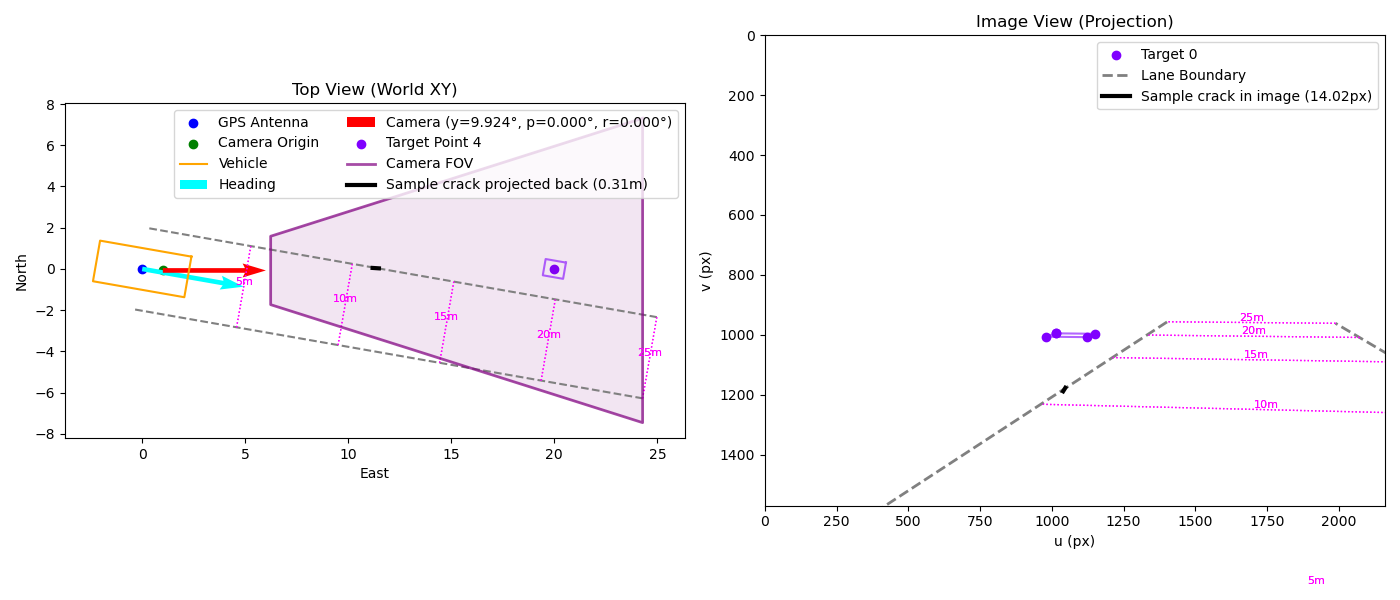
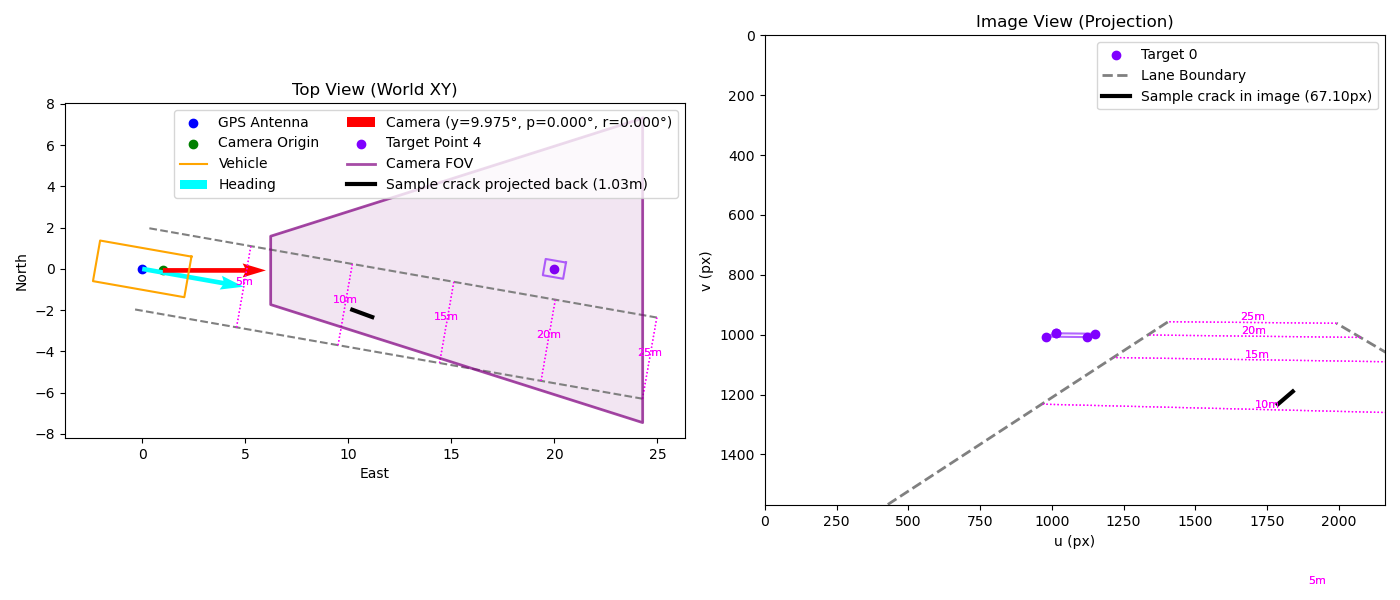
Refine camera model (#103)
* fix plotting issue with the crack detection visualization

* Add a section in the camera_model.py show case how to call the function by adding a test on projection

* Add more comment

* Address comment by CoPilot

---------

diff --git a/utility/camera/camera_model.py b/utility/camera/camera_model.py
@@ -34,7 +34,7 @@ logger.setLevel(logging.INFO)  # Default level, can be changed by main script
 if not logger.handlers:  # Avoid duplicate handlers
     handler = logging.StreamHandler()
     formatter = logging.Formatter(
-        '%(asctime)s - %(name)s - %(levelname)s - %(message)s'
+        '%(asctime)s - %(levelname)s - [%(filename)s:%(lineno)d] - %(message)s'
     )
     handler.setFormatter(formatter)
     logger.addHandler(handler)
@@ -133,6 +133,9 @@ class CameraModel:
         inputs !!!Important!!!:
                 world_point: 3D point in world coordinates (ENU)
             antenna_pos_world: GPS antenna position in world coordinates (ENU)
+                Note that this value does not need to be the absolute position;
+                for example, it can be [0,0,0], in which case the world point
+                returned will be relative to this position but still in the world frame (ENU).
             heading_deg: vehicle heading angle in degrees (0 = East, 90 = North, etc.)
                 camera orientation angles in vehicle body frame:
             yaw (Azimuth): rotation around body frame Z axis (up), positive is counter-clockwise or to the left
@@ -175,16 +178,19 @@ class CameraModel:
         # logger.debug(f"Projected image coordinates (homogeneous): {p_img_homog}")
         return p_img_homog[:2]
 
-    def camera_pixel_to_world(self, pixel_uv, distance_to_ground,
+    def camera_pixel_to_world(self, pixel_uv,
                               antenna_pos_world, heading_deg, yaw, pitch,
                               roll):
         """
         Convert camera pixel coordinates to world coordinates on the ground plane.
-
+        This function uses vehicle antenna position and camera relative position to calculate the world coordinates.
+        TODO: have a projection that uses solely the camera position/orientation and the pixel coordinates.
         Args:
             pixel_uv: [u,v] pixel coordinates in the image
-            distance_to_ground: height of the camera above ground in meters
-            antenna_pos_world: GPS antenna position in world coordinates (ENU)
+            antenna_pos_world: GPS antenna position in world coordinates (ENU).
+                Note that this value does not need to be the absolute position;
+                for example, it can be [0,0,0], in which case the world point
+                returned will be relative to this position but still in the world frame (ENU).
             heading_deg: vehicle heading in degrees (0=East, 90=North)
             yaw, pitch, roll: camera orientation angles in vehicle body frame
 
@@ -210,6 +216,7 @@ class CameraModel:
         ray_dir_world = R_total @ ray_dir_cam
 
         # 3. Get camera position in world coordinates
+        # antenna offset has height so no need consider height separately here.
         cam_pos_world = antenna_pos_world + R_heading @ self.gps_to_cam_offset_body
 
         # 4. Find intersection with ground plane (z = 0)
@@ -485,7 +492,11 @@ class CameraModel:
             max_dist = np.linalg.norm(world_points[:, :2] - antenna_pos_world[:2], axis=1).max()
         lane_max_dist = max(20.0, max_dist + 5.0)  # Add buffer for visualization
 
-        for offset in [- lane_width / 2, lane_width / 2]:
+        # Lists to store left and right lane image points
+        left_lane_img_pts = []
+        right_lane_img_pts = []
+        
+        for offset in [-lane_width / 2, lane_width / 2]:
             lane_start = antenna_pos_world + R_heading @ np.array([0.0, offset, -antenna_pos_world[2]])
             # Get maximum distance from antenna to target point in the heading direction
             target_dist = np.linalg.norm(world_points[:, :2] - antenna_pos_world[:2], axis=1).max()
@@ -506,6 +517,12 @@ class CameraModel:
             if len(lane_img_pts) > 1:
                 ax_img.plot(lane_img_pts[:, 0], lane_img_pts[:, 1],
                             color='gray', linestyle='--', linewidth=2, label='Lane Boundary' if offset == -lane_width / 2 else None)
+            # Store points for each lane separately
+            # note that the left and right lane projection may be behind the camera, when using it, need to filter out those beyond FOV
+            if offset == -lane_width / 2:
+                left_lane_img_pts = lane_img_pts
+            else:
+                right_lane_img_pts = lane_img_pts
 
             # Plot cross sections (perpendicular lines) along the lane centerline every ~5 meters
             cross_section_spacing = 5.0
@@ -542,82 +559,69 @@ class CameraModel:
         # verify crack size estimation algorithm using the pixel to world back - projection
         pixel_distance = 50
         # Sample points within the area surrounded by lane boundary image points
-        if len(lane_img_pts) > 0:
-            # Find points in the lower half of the image
-            valid_pts = lane_img_pts[lane_img_pts[:, 1] > self.intrinsics['cy']]
+        # Sampling crack points based on lane boundaries
+        if len(left_lane_img_pts) > 0 and len(right_lane_img_pts) > 0:
+            # Get y bounds for valid sampling region and cap at image boundaries
+            y_min = max(left_lane_img_pts[0, 1], right_lane_img_pts[0, 1])
+            y_max = min(left_lane_img_pts[-1, 1], right_lane_img_pts[-1, 1])
+            
+            # Cap at image boundaries (cy is center, so *2 gives full height/width)
+            y_min = max(0, min(y_min, self.intrinsics['cy'] * 2))
+            y_max = max(0, min(y_max, self.intrinsics['cy'] * 2))
 
-            if len(valid_pts) > 0:
-                # Get the convex hull of lane points to define sampling area
-                left_lane = valid_pts[valid_pts[:, 0] < self.intrinsics['cx']]
-                right_lane = valid_pts[valid_pts[:, 0] > self.intrinsics['cx']]
+            # Sample first point about 1/3 up from bottom
+            v1 = y_min + (y_max - y_min) * (2.0 / 3.0 * np.random.random() + 1.0 / 3.0)
 
-                if len(left_lane) > 0 and len(right_lane) > 0:
-                    # Sort points by y - coordinate
-                    left_lane = left_lane[left_lane[:, 1].argsort()]
-                    right_lane = right_lane[right_lane[:, 1].argsort()]
+            # Find closest y-values in both lanes
+            left_idx = np.searchsorted(left_lane_img_pts[:, 1], v1)
+            right_idx = np.searchsorted(right_lane_img_pts[:, 1], v1)
 
-                    # Get y bounds for valid sampling region
-                    y_min = max(left_lane[0, 1], right_lane[0, 1])
-                    y_max = min(left_lane[-1, 1], right_lane[-1, 1])
+            # Get x-coordinates at those indices
+            if left_idx >= len(left_lane_img_pts):
+                left_idx = len(left_lane_img_pts) - 1
+            if right_idx >= len(right_lane_img_pts):
+                right_idx = len(right_lane_img_pts) - 1
 
-                    # Sample first point about 1 / 3 up from bottom
-                    v1 = y_min + (y_max - y_min) * 0.33
+            left_x = max(0, min(left_lane_img_pts[left_idx, 0], self.intrinsics['cx'] * 2))
+            right_x = max(0, min(right_lane_img_pts[right_idx, 0], self.intrinsics['cx'] * 2))
 
-                    # Find closest y - values in both lanes
-                    left_idx = np.searchsorted(left_lane[:, 1], v1)
-                    right_idx = np.searchsorted(right_lane[:, 1], v1)
+            # Sample first point randomly between lane boundaries
+            u1 = left_x + (right_x - left_x) * np.random.random()
 
-                    # Get x - coordinates at those indices
-                    if left_idx >= len(left_lane):
-                        left_idx = len(left_lane) - 1
-                    if right_idx >= len(right_lane):
-                        right_idx = len(right_lane) - 1
+            # Sample second point in a circle with radius pixel_distance
+            angle = 2 * np.pi * np.random.random()
+            u2 = u1 + pixel_distance * np.cos(angle)
+            v2 = v1 + pixel_distance * np.sin(angle)
 
-                    left_x = left_lane[left_idx, 0]
-                    right_x = right_lane[right_idx, 0]
+            # Ensure second point stays within lane boundaries and image
+            v2 = max(0, min(v2, y_min))
+            v2 = min(v2, self.intrinsics['cy'] * 2)
 
-                    # Sample first point randomly between lane boundaries
-                    u1 = left_x + (right_x - left_x) * np.random.random()
+            # Find x bounds for second point
+            left_idx2 = np.searchsorted(left_lane_img_pts[:, 1], v2)
+            right_idx2 = np.searchsorted(right_lane_img_pts[:, 1], v2)
 
-                    # Sample second point pixel_distance higher in image
-                    # Sample second point in a circle with radius pixel_distance
-                    angle = 2 * np.pi * np.random.random()  # Random angle
-                    u2 = u1 + pixel_distance * np.cos(angle)
-                    v2 = v1 + pixel_distance * np.sin(angle)
+            if left_idx2 >= len(left_lane_img_pts):
+                left_idx2 = len(left_lane_img_pts) - 1
+            if right_idx2 >= len(right_lane_img_pts):
+                right_idx2 = len(right_lane_img_pts) - 1
 
-                    # Ensure the point stays within lane boundaries
-                    v2 = max(min(v2, y_min), y_max)  # Clamp v2 to valid y range
+            left_x2 = max(0, min(left_lane_img_pts[left_idx2, 0], self.intrinsics['cx'] * 2))
+            right_x2 = max(0, min(right_lane_img_pts[right_idx2, 0], self.intrinsics['cx'] * 2))
 
-                    # Find x bounds for second point
-                    left_idx2 = np.searchsorted(left_lane[:, 1], v2)
-                    right_idx2 = np.searchsorted(right_lane[:, 1], v2)
-
-                    if left_idx2 >= len(left_lane):
-                        left_idx2 = len(left_lane) - 1
-                    if right_idx2 >= len(right_lane):
-                        right_idx2 = len(right_lane) - 1
-
-                    left_x2 = left_lane[left_idx2, 0]
-                    right_x2 = right_lane[right_idx2, 0]
-
-                    u2 = left_x2 + (right_x2 - left_x2) * np.random.random()
-                else:
-                    # Fallback if lane boundaries not found
-                    u1 = self.intrinsics['cx']
-                    v1 = self.intrinsics['cy'] + 200
-                    u2 = u1
-                    v2 = v1 - 50
-            else:
-                # Fallback if no valid points
-                u1 = self.intrinsics['cx']
-                v1 = self.intrinsics['cy'] + 200
-                u2 = u1
-                v2 = v1 - 50
+            u2 = left_x2 + (right_x2 - left_x2) * np.random.random()
+            logger.info(f"Sampled crack points: ({u1:.2f}, {v1:.2f}) and ({u2:.2f}, {v2:.2f})")
+        else:
+            logger.info("No valid lane boundaries found for sampling crack points.")
+            # Fallback values
+            u1 = self.intrinsics['cx']
+            v1 = self.intrinsics['cy'] + 200
+            u2 = u1
+            v2 = v1 - 50
 
         # Back - project to world coordinates
         world_pt1 = self.camera_pixel_to_world(
             [u1, v1],
-            distance_to_ground=antenna_pos_world[2],
             antenna_pos_world=antenna_pos_world,
             heading_deg=heading_deg,
             yaw=yaw,
@@ -627,7 +631,6 @@ class CameraModel:
 
         world_pt2 = self.camera_pixel_to_world(
             [u2, v2],
-            distance_to_ground=antenna_pos_world[2],
             antenna_pos_world=antenna_pos_world,
             heading_deg=heading_deg,
             yaw=yaw,
@@ -709,7 +712,7 @@ if __name__ == "__main__":
 
     # TODO: generate a random world point from the camera field of view
     antenna_pos_world = np.array([0.0, 0.0, 1.3])  # GPS world coordinates in ENU
-    world_point = np.array([20.0, 0.0, 0.0])        # Target point on road
+    world_point = np.array([20.0 + 0.05 * np.random.uniform(-1, 1), 0.0, 0.0])        # Target point on road
 
     # Heading in degrees (counter clockwise is positive, 0 = East, 90 = North, etc.)
     # heading_deg = 0.0   # Facing east
@@ -738,6 +741,38 @@ if __name__ == "__main__":
     output_folder = os.path.join('samples', 'data', f'{base_folder}_{next_num:02d}')
     os.makedirs(output_folder, exist_ok=True)
 
+    # ---- example of how to use the model as quick test of projection and back-projection -----------
+    logger.info("\nTesting projection and back-projection:")
+    # First project world point to image
+    cam_coords = model.world_to_camera(world_point, antenna_pos_world, heading_deg,
+                                       yaw_in_body_frame, pitch_in_body_frame, roll_in_body_frame)
+    uv = model.project_point_to_image(cam_coords)
+    logger.info(f"World point {world_point} projects to image coordinates {uv}")
+    
+    # Then project back to world
+    world_point_back = model.camera_pixel_to_world(
+        uv,
+        antenna_pos_world=antenna_pos_world,
+        heading_deg=heading_deg,
+        yaw=yaw_in_body_frame,
+        pitch=pitch_in_body_frame,
+        roll=roll_in_body_frame
+    )
+    
+    # Compare results
+    if world_point_back is not None:
+        # remark: Using assert statements in production code is not recommended as they can be disabled with the -O flag.
+        # Consider using a proper exception like RuntimeError or converting this to a warning/error log message for production robustness.
+        # assert np.allclose(world_point[:2], world_point_back[:2], atol=1e-8), "Back-projected point does not match original point"
+        if not np.allclose(world_point[:2], world_point_back[:2], atol=1e-8):
+            logger.error("Back-projected point does not match original point")
+            raise RuntimeError("Back-projected point does not match original point")
+        error = np.linalg.norm(world_point - world_point_back)
+        logger.info(f"Back-projected world point: {world_point_back}")
+        logger.info(f"Projection error: {error:.8f} meters")
+
+    # -------------------------------------------------------------------------------------------------
+    
     # plot top view and image view comparison
     fig, ax_top, ax_img = model.plot_comparison_view(world_point, antenna_pos_world, heading_deg, yaw_in_body_frame, pitch_in_body_frame, roll_in_body_frame)
     fig.savefig(os.path.join(output_folder, 'top_view_vs_image_view.png'))

diff --git a/utility/camera/test_camera_model.py b/utility/camera/test_camera_model.py
@@ -2,7 +2,8 @@
 # Unit tests for CameraModel class in camera_model.py
 Written with the help of Copilot. (Verified)
 run with
-python3 -m pytest test_camera_model.py
+python3 -m pytest # test all the test_xxx
+python3 -m pytest test_camera_model.py # test only on test_camera_model.py
 '''
 import logging
 import numpy as np
@@ -16,7 +17,7 @@ logger.setLevel(logging.INFO)
 if not logger.handlers:  # Avoid duplicate handlers
     handler = logging.StreamHandler()
     formatter = logging.Formatter(
-        '%(asctime)s - %(name)s - %(levelname)s - %(message)s'
+        '%(asctime)s - %(levelname)s - [%(filename)s:%(lineno)d] - %(message)s'
     )
     handler.setFormatter(formatter)
     logger.addHandler(handler)
@@ -197,7 +198,7 @@ def test_camera_pixel_to_world_consistency_with_projection(default_model):
         if pixel_coords is not None:
             # Now convert back from pixel to world
             reconstructed_world = default_model.camera_pixel_to_world(
-                pixel_coords, 1.5, antenna, heading, yaw, pitch, roll)
+                pixel_coords, antenna, heading, yaw, pitch, roll)
 
             logger.debug(f"Reconstructed world point: {reconstructed_world}")
 
